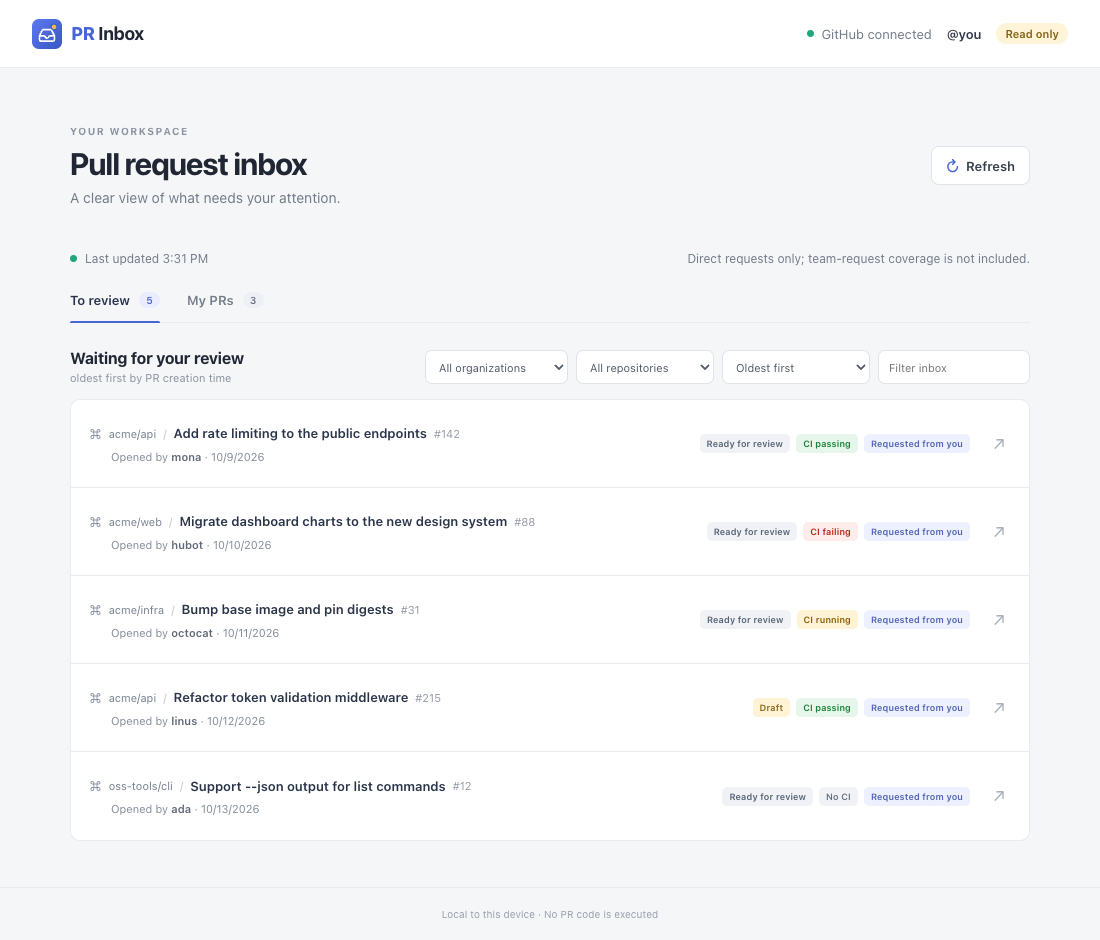
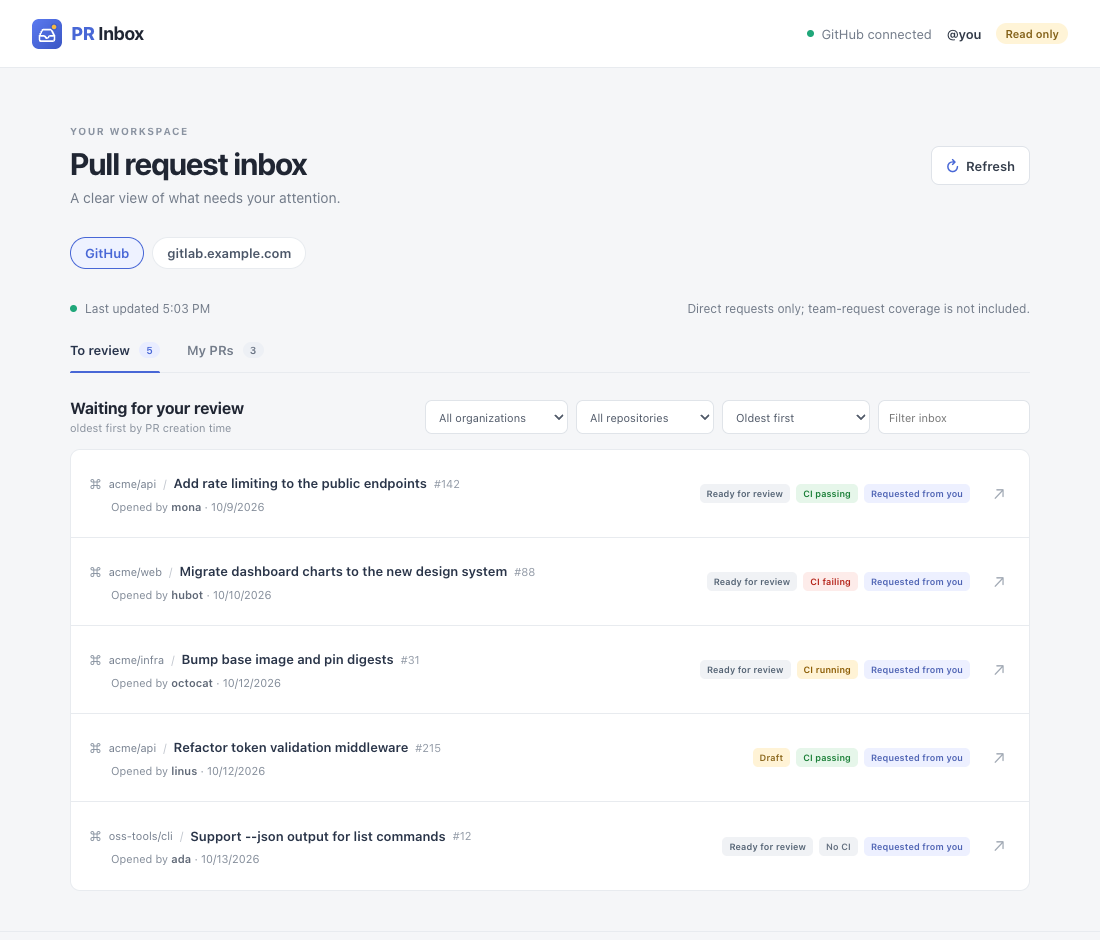
feat: auto-detect GitHub and gitlab.com, login hints per tab, GitLab screenshot

diff --git a/web/src/main.tsx b/web/src/main.tsx
@@ -195,8 +195,14 @@ function App() {
         </a>
         {session && (
           <div className="account">
-            <span className="connection"><i /> {hostName} connected</span>
-            <span className="account-login">@{provider?.viewer ?? session.viewer}</span>
+            {(provider?.viewer ?? session.viewer) ? (
+              <>
+                <span className="connection"><i /> {hostName} connected</span>
+                <span className="account-login">@{provider?.viewer ?? session.viewer}</span>
+              </>
+            ) : (
+              <span className="connection"><i /> {hostName} not signed in</span>
+            )}
             {(session.readOnly || !session.mutationsAvailable) && <span className="mode-badge">Read only</span>}
           </div>
         )}
@@ -251,7 +257,7 @@ function App() {
           <>
             <div className="freshness">
               <span><i className="fresh-dot" /> Last updated {new Date(inbox.fetchedAt).toLocaleTimeString([], { hour: "numeric", minute: "2-digit" })}</span>
-              <span className="coverage">{inbox.teamCoverage}</span>
+              <span className="coverage">{isGitLab ? inbox.teamCoverage.replace("team-request", "group-request") : inbox.teamCoverage}</span>
             </div>
             <nav className="tabs" aria-label="Queues">
               <button className={activeTab === "review" ? "tab active" : "tab"} onClick={() => setActiveTab("review")}>
@@ -266,7 +272,7 @@ function App() {
               <div className="queue-heading">
                 <div>
                   <h2>{activeTab === "review" ? "Waiting for your review" : "Authored by you"}</h2>
-                  <p>{queue?.ordering}</p>
+                  <p>{isGitLab ? queue?.ordering.replace("PR", "merge request") : queue?.ordering}</p>
                 </div>
                 <div className="queue-controls">
                   <label className="visually-hidden" htmlFor="org-filter">Filter by organization</label>
@@ -285,21 +291,21 @@ function App() {
                       <option key={name} value={name}>{activeOrg ? name.slice(activeOrg.length + 1) : name} ({count})</option>
                     ))}
                   </select>
-                  <label className="visually-hidden" htmlFor="sort-order">Sort pull requests</label>
+                  <label className="visually-hidden" htmlFor="sort-order">Sort {nounPlural}</label>
                   <select id="sort-order" value={order} onChange={(event) => setOrder(event.target.value as "oldest" | "recent")}>
                     <option value="oldest">Oldest first</option>
                     <option value="recent">Recently updated</option>
                   </select>
-                  <label className="visually-hidden" htmlFor="filter">Filter pull requests</label>
+                  <label className="visually-hidden" htmlFor="filter">Filter {nounPlural}</label>
                   <input id="filter" value={query} onChange={(event) => setQuery(event.target.value)} placeholder="Filter inbox" />
                 </div>
               </div>
 
               {queue?.truncated && (
                 <div className="notice truncation-notice" role="status">
-                  <strong>Not all pull requests are shown.</strong>{" "}
-                  This queue has {queue.totalCount} matching PRs, but only the first {queue.items.length} are loaded
-                  (limit of {queue.items.length} per queue). Some PRs, including possibly older ones, may be missing.
+                  <strong>Not all {nounPlural} are shown.</strong>{" "}
+                  This queue has {queue.totalCount} matching {nounPlural}, but only the first {queue.items.length} are loaded
+                  (limit of {queue.items.length} per queue). Some {nounPlural}, including possibly older ones, may be missing.
                   {isGitLab
                     ? <>The group and project filters above only filter what is already loaded.</>
                     : <>Restart with <code>--org ORG</code> to narrow discovery to the organizations you care about.
@@ -309,8 +315,8 @@ function App() {
               {filtered.length === 0 ? (
                 <div className="empty-state">
                   <div className="empty-icon" aria-hidden="true">{hasFilters ? "⌕" : "✓"}</div>
-                  <h3>{hasFilters ? "No matching pull requests" : "You're all caught up"}</h3>
-                  <p>{hasFilters ? "Try different filters, or clear the organization and repository selection." : "There are no open pull requests in this queue right now."}</p>
+                  <h3>{hasFilters ? `No matching ${nounPlural}` : "You're all caught up"}</h3>
+                  <p>{hasFilters ? "Try different filters, or clear the organization and repository selection." : `There are no open ${nounPlural} in this queue right now.`}</p>
                 </div>
               ) : (
                 <ul className="pr-list">

diff --git a/cmd/pr-inbox/main.go b/cmd/pr-inbox/main.go
@@ -21,6 +21,7 @@ import (
 	"github.com/cpanato/pr-inbox/internal/github"
 	"github.com/cpanato/pr-inbox/internal/gitlab"
 	"github.com/cpanato/pr-inbox/internal/inbox"
+	"github.com/cpanato/pr-inbox/internal/provider"
 	"github.com/cpanato/pr-inbox/internal/server"
 )
 
@@ -56,7 +57,8 @@ func run(args []string) error {
 	flags.Var(&orgs, "org", "limit GitHub discovery to an organization; may be repeated")
 	var gitlabHosts stringList
 	flags.Var(&gitlabHosts, "gitlab", "also show merge requests from a GitLab host such as gitlab.com or gitlab.example.com; may be repeated")
-	noGitHub := flags.Bool("no-github", false, "do not connect to GitHub (use with --gitlab)")
+	noGitHub := flags.Bool("no-github", false, "do not connect to GitHub")
+	noGitLab := flags.Bool("no-gitlab", false, "do not connect to gitlab.com automatically")
 	demoMode := flags.Bool("demo", false, "use built-in sample data instead of GitHub (no authentication needed)")
 	if err := flags.Parse(args); err != nil {
 		if errors.Is(err, flag.ErrHelp) {
@@ -72,61 +74,21 @@ func run(args []string) error {
 		return errors.New("--demo cannot be combined with doctor")
 	}
 
-	if *demoMode && (len(gitlabHosts) > 0 || *noGitHub) {
-		return errors.New("--demo cannot be combined with --gitlab or --no-github")
+	if *demoMode && (len(gitlabHosts) > 0 || *noGitHub || *noGitLab) {
+		return errors.New("--demo cannot be combined with --gitlab, --no-github or --no-gitlab")
 	}
-	if *noGitHub && len(gitlabHosts) == 0 {
-		return errors.New("--no-github needs at least one --gitlab host")
+	if *noGitHub && *noGitLab && len(gitlabHosts) == 0 {
+		return errors.New("--no-github and --no-gitlab leave nothing to show; add a --gitlab host or drop a flag")
 	}
 
 	var services []*inbox.Service
 	if *demoMode {
 		services = append(services, inbox.New(demo.New(), orgs), inbox.New(demo.NewGitLab(), nil))
 	} else {
-		if !*noGitHub {
-			token, err := auth.Token(context.Background())
-			if err != nil {
-				if *doctor {
-					return err
-				}
-				return fmt.Errorf("%w; run `gh auth login` and try again", err)
-			}
-			client := github.NewClient(token)
-			viewer, err := client.Viewer(context.Background())
-			if err != nil {
-				if *doctor {
-					return fmt.Errorf("GitHub connectivity: %w", err)
-				}
-				return err
-			}
-			if *doctor {
-				fmt.Printf("GitHub CLI: available\nGitHub account: %s\nGitHub API: connected\n", viewer.Login)
-			}
-			services = append(services, inbox.New(github.NewProvider(client, viewer), orgs))
-		}
-		seen := make(map[string]bool)
-		for _, value := range gitlabHosts {
-			host, err := gitlab.NormalizeHost(value)
-			if err != nil {
-				return err
-			}
-			if seen[host] {
-				continue
-			}
-			seen[host] = true
-			token, err := gitlab.Token(context.Background(), host)
-			if err != nil {
-				return err
-			}
-			client := gitlab.NewClient(host, token)
-			viewer, err := client.Viewer(context.Background())
-			if err != nil {
-				return fmt.Errorf("GitLab %s: %w", host, err)
-			}
-			if *doctor {
-				fmt.Printf("GitLab %s account: %s\nGitLab %s API: connected\n", host, viewer.Login, host)
-			}
-			services = append(services, inbox.New(gitlab.NewProvider(client, viewer), nil))
+		var err error
+		services, err = connectProviders(context.Background(), orgs, gitlabHosts, *noGitHub, *noGitLab, *doctor)
+		if err != nil {
+			return err
 		}
 	}
 	if *doctor {
@@ -177,6 +139,80 @@ func run(args []string) error {
 		}
 		return fmt.Errorf("serve local inbox: %w", err)
 	}
+}
+
+func connectProviders(ctx context.Context, orgs, gitlabHosts []string, noGitHub, noGitLab, doctor bool) ([]*inbox.Service, error) {
+	var ready, missing []*inbox.Service
+	add := func(service *inbox.Service, unavailable *provider.Unavailable) {
+		if unavailable == nil {
+			ready = append(ready, service)
+			return
+		}
+		log.Printf("warning: %s", unavailable.Reason())
+		missing = append(missing, inbox.New(unavailable, nil))
+	}
+
+	if !noGitHub {
+		info := provider.Info{ID: "github", Name: "GitHub", Kind: "github", Host: "github.com"}
+		token, err := auth.Token(ctx)
+		if err != nil {
+			add(nil, provider.NewUnavailable(info, "auth_required: "+err.Error()))
+		} else {
+			client := github.NewClient(token)
+			viewer, err := client.Viewer(ctx)
+			if err != nil {
+				add(nil, provider.NewUnavailable(info, fmt.Sprintf("GitHub connectivity: %v", err)))
+			} else {
+				if doctor {
+					fmt.Printf("GitHub account: %s\nGitHub API: connected\n", viewer.Login)
+				}
+				add(inbox.New(github.NewProvider(client, viewer), orgs), nil)
+			}
+		}
+	}
+
+	hosts := make([]string, 0, len(gitlabHosts)+1)
+	if !noGitLab {
+		hosts = append(hosts, gitlab.DefaultHost)
+	}
+	seen := make(map[string]bool)
+	for _, value := range gitlabHosts {
+		host, err := gitlab.NormalizeHost(value)
+		if err != nil {
+			return nil, err
+		}
+		hosts = append(hosts, host)
+	}
+	for _, host := range hosts {
+		if seen[host] {
+			continue
+		}
+		seen[host] = true
+		info := provider.Info{ID: "gitlab:" + host, Name: host, Kind: "gitlab", Host: host}
+		if host == gitlab.DefaultHost {
+			info.Name = "GitLab"
+		}
+		token, err := gitlab.Token(ctx, host)
+		if err != nil {
+			add(nil, provider.NewUnavailable(info, "auth_required: "+err.Error()))
+			continue
+		}
+		client := gitlab.NewClient(host, token)
+		viewer, err := client.Viewer(ctx)
+		if err != nil {
+			add(nil, provider.NewUnavailable(info, fmt.Sprintf("GitLab %s: %v", host, err)))
+			continue
+		}
+		if doctor {
+			fmt.Printf("GitLab %s account: %s\nGitLab %s API: connected\n", host, viewer.Login, host)
+		}
+		add(inbox.New(gitlab.NewProvider(client, viewer), nil), nil)
+	}
+
+	if len(ready) == 0 {
+		return nil, errors.New("no provider is available; run `gh auth login` and/or `glab auth login`, or set GITHUB_TOKEN / GITLAB_TOKEN")
+	}
+	return append(ready, missing...), nil
 }
 
 func openBrowser(url string) error {

diff --git a/internal/provider/unavailable.go b/internal/provider/unavailable.go
@@ -1,0 +1,29 @@
+package provider
+
+import (
+	"context"
+	"errors"
+)
+
+// Unavailable stands in for a provider that could not be set up (usually a
+// missing token). Its tab stays visible and explains how to fix it.
+type Unavailable struct {
+	info   Info
+	reason string
+}
+
+func NewUnavailable(info Info, reason string) *Unavailable {
+	return &Unavailable{info: info, reason: reason}
+}
+
+func (u *Unavailable) Info() Info { return u.info }
+
+func (u *Unavailable) Reason() string { return u.reason }
+
+func (u *Unavailable) Search(context.Context, Query, int) (SearchResult, error) {
+	return SearchResult{}, errors.New(u.reason)
+}
+
+func (u *Unavailable) CIStatuses(context.Context, []PullRequest) (map[int64]string, error) {
+	return nil, errors.New(u.reason)
+}

diff --git a/internal/auth/auth.go b/internal/auth/auth.go
@@ -3,12 +3,18 @@ package auth
 import (
 	"context"
 	"fmt"
+	"os"
 	"os/exec"
 	"strings"
 	"time"
 )
 
 func Token(parent context.Context) (string, error) {
+	for _, name := range []string{"GITHUB_TOKEN", "GH_TOKEN"} {
+		if token := strings.TrimSpace(os.Getenv(name)); token != "" {
+			return token, nil
+		}
+	}
 	ctx, cancel := context.WithTimeout(parent, 10*time.Second)
 	defer cancel()
 

diff --git a/README.md b/README.md
@@ -9,7 +9,9 @@ authentication and serves an embedded browser interface on loopback.
 
 ![PR Inbox showing the To review queue with CI status, filters and review reasons](assets/screenshot.png)
 
-The screenshot uses sample data.
+![The same inbox on a GitLab tab, showing merge requests](assets/screenshot-gitlab.png)
+
+The screenshots use sample data (`--demo`). With more than one provider, each gets its own tab.
 
 ## Current implementation
 
@@ -40,10 +42,23 @@ Planned work, in order. Nothing below is implemented yet and the scope may chang
   - Inline comments
   - Saved preferences
 
+## Requirements
+
+- Go and Node.js 24 to build from source (not needed for a release binary).
+- To see **GitHub**: the [GitHub CLI (`gh`)](https://cli.github.com/) logged in with
+  `gh auth login`, or a `GITHUB_TOKEN` / `GH_TOKEN` environment variable.
+- To see **GitLab**: the [GitLab CLI (`glab`)](https://gitlab.com/gitlab-org/cli) logged in
+  with `glab auth login`, or a personal access token with the `read_api` scope in
+  `GITLAB_TOKEN` (see [GitLab](#gitlab)).
+
+You only need the providers you use. GitHub and gitlab.com are tried automatically:
+a provider without credentials logs a warning in the terminal and its tab explains
+how to log in. If neither has credentials, the program exits with that explanation.
+
 ## Build and run
 
 ```sh
-gh auth login
+gh auth login      # and/or: glab auth login
 make build
 ./dist/pr-inbox
 ```
@@ -55,8 +70,9 @@ Useful options:
 | `./dist/pr-inbox` | Starts the local server and opens the inbox in your default browser. |
 | `./dist/pr-inbox --no-open` | Starts the server and only prints the launch URL, without opening a browser. Useful over SSH or to pick a specific browser. |
 | `./dist/pr-inbox --org ossf --org sigstore` | Limits discovery to the given organizations. Repeat `--org` for each one. Without it, PRs from every organization and account you can see are searched. |
-| `./dist/pr-inbox --gitlab gitlab.com --gitlab gitlab.example.com` | Also lists merge requests from GitLab. Repeat `--gitlab` for each instance (GitLab.com and any number of self-hosted ones). See [GitLab](#gitlab). |
-| `./dist/pr-inbox --no-github --gitlab gitlab.com` | Skips GitHub entirely, for people who only use GitLab. |
+| `./dist/pr-inbox --gitlab gitlab.example.com` | Also lists merge requests from a self-hosted GitLab. Repeat `--gitlab` for each instance. gitlab.com is added automatically. See [GitLab](#gitlab). |
+| `./dist/pr-inbox --no-github` | Skips GitHub, for people who only use GitLab. |
+| `./dist/pr-inbox --no-gitlab` | Skips the automatic gitlab.com tab. |
 | `./dist/pr-inbox --read-only` | Opt-in guard against write operations. It has no effect today: the current version is always read-only (it only reads from GitHub), so you don't need to pass it. It exists so that, once actions such as review submission are added, you can disable them explicitly. Defaults to off. |
 | `./dist/pr-inbox --demo` | Runs with built-in sample data instead of GitHub. No `gh` or authentication is needed and no network calls are made, so it is a safe way to try the interface (and how the README screenshot is produced). Can be combined with `--org` and `--no-open`, but not with `doctor`. |
 | `./dist/pr-inbox doctor` | Checks that `gh` is installed and authenticated and that the GitHub API (and every `--gitlab` host) is reachable, prints the accounts, then exits without starting the server. `--doctor` works too. |
@@ -73,8 +89,9 @@ credentials stay in the Go process and are never sent to the browser.
 
 ## GitLab
 
-`--gitlab HOST` adds a GitLab instance. It accepts GitLab.com or any self-hosted
-host, and can be repeated. Only HTTPS is supported.
+gitlab.com is added automatically; if no token is found you get a warning and a
+tab with login instructions (`--no-gitlab` turns it off). `--gitlab HOST` adds a
+self-hosted instance and can be repeated. Only HTTPS is supported.
 
 Create a [personal access token](https://docs.gitlab.com/user/profile/personal_access_tokens/)
 with the `read_api` scope and expose it through an environment variable. Tokens
@@ -92,7 +109,7 @@ another host.
 ```sh
 export GITLAB_TOKEN=glpat-...
 export GITLAB_TOKEN_GITLAB_EXAMPLE_COM=glpat-...
-./dist/pr-inbox --gitlab gitlab.com --gitlab gitlab.example.com
+./dist/pr-inbox --gitlab gitlab.example.com
 ```
 
 Notes:
@@ -102,8 +119,8 @@ Notes:
   `SSL_CERT_FILE` / `SSL_CERT_DIR` environment variables; certificate checks are never disabled.
 - Pipeline status needs one extra request per merge request, so GitLab queues with
   many items load more slowly than GitHub ones.
-- With more than one provider, the UI shows a tab per instance (GitHub first, unless
-  `--no-github`); each loads on first open. A single provider keeps the plain layout.
+- With more than one provider, the UI shows a tab per instance (GitHub first; providers without
+  credentials come last and show login instructions); each loads on first open. A single provider keeps the plain layout.
 - `--demo` includes a sample GitLab instance, so you can try the tabs without credentials.
 
 ## Development
